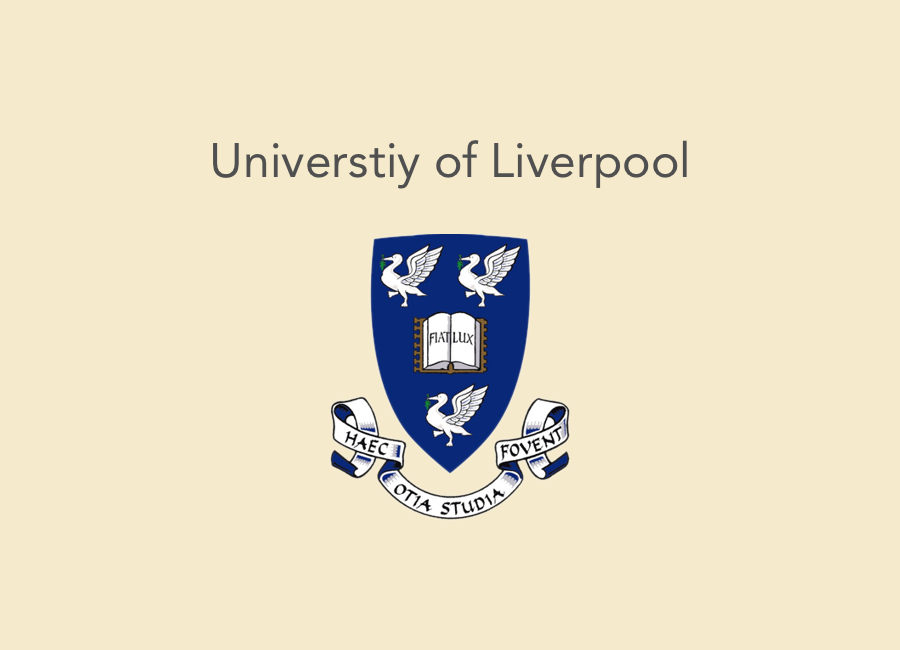
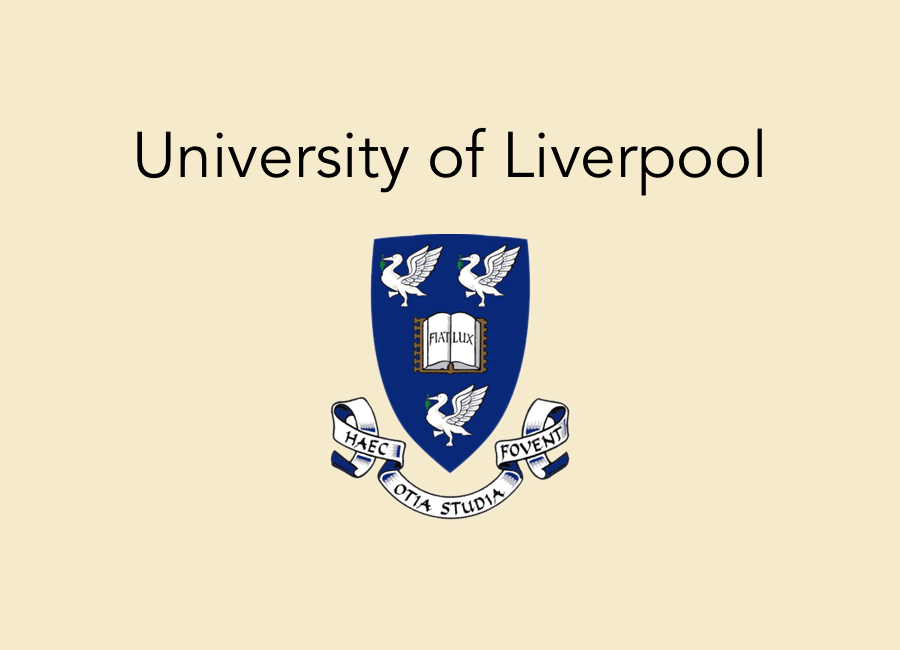
new uol image, copyright updated, nav bar selection fixed and insta removed

Changed region(s): [[0.1244, 0.1846, 0.8711, 0.3077]]

diff --git a/about.html b/about.html
@@ -60,13 +60,13 @@
               </ul>
               <ul class="nav navbar-nav navbar-right">
                   <li class="page-scroll">
-                      <a href="https://medium.com/@izzywizzz" target="_blank">Thoughts</a>
+                      <a href="https://medium.com/@izzywizz" target="_blank">Thoughts</a>
                   </li>
                   <li class="page-scroll">
                       <a href="index.html#portfolio">Portfolio</a>
                   </li>
                   <li class="page-scroll">
-                      <a href="about.html">About</a>
+                      <a href="about.html"><span>About</span></a>
                   </li>
                   <li class="page-scroll">
                       <a href="contact.html">Let's Chat</a>
@@ -94,13 +94,13 @@
                 <div class="col-sm-6">
                 <p class="about">Howdy there! My name is <span>Izzy</span></p>
                     <p class="medium">
-                    I am <span>iOS developer</span> and <span>designer</span> from Liverpool. I spent my youthful years traveling around europe,
+                    I am an <span>iOS developer</span> and <span>designer</span> from Glasgow. I spent my youthful years traveling around europe,
                      drinking far too many cups of tea and getting lost in a book.
-                    I can think of nothing more I love then bringing that idea on the back of a tissue that someone jotted down to life on the screen. Its amazing.
+                    I can think of nothing more I love then bringing that idea that someone jotted down to life on the screen. Its an amazing feeling.
                    </p>
-                    <p class="medium">I have been developing & desiging for a few years now and have had the pleasure working with some awesome clients
-                      like <span>Unilever</span> and <span>Univeristy of Liverpool</span>.
-                    What I promise to bring is a sharp, clean design approach, technical knwoldege of the iOS platform and and most of important, passion <span>:)</span></p>
+                    <p class="medium">I have been developing & designing for a few years now and have had the pleasure working with some awesome clients
+                      like <span>Unilever</span> and <span>University of Liverpool</span>.
+                    What I promise to bring is a sharp, clean design approach, technical knowledge of the iOS platform and most importantly, passion <span>:)</span></p>
                 </div>
             </div>
         </div>
@@ -112,16 +112,13 @@
             <div class="container">
                 <div class="row">
                     <div class="footer-col col-md-4">
-                        <p> <br>Copyright &copy; Izzy Ali 2016</p>
+                        <p> <br>Copyright &copy; Izzy Ali 2018</p>
                     </div>
                     <div class="footer-col col-md-4">
                     <!-- Left Blank for the grid-->
                     </div>
                     <div class="footer-col col-md-4">
                         <ul class="list-inline">
-                          <li>
-                              <a href="https://www.instagram.com/izzywizzz/" class="btn-social btn-outline"><i class="fa fa-instagram"></i></a>
-                          </li>
                           <li>
                               <a href="https://github.com/Izzywizz" class="btn-social btn-outline"><i class="fa fa-github"></i></a>
                           </li>

diff --git a/index.html b/index.html
@@ -60,7 +60,7 @@
                 </ul>
                 <ul class="nav navbar-nav navbar-right">
                     <li class="page-scroll">
-                        <a href="https://medium.com/@izzywizzz" target="_blank">Thoughts</a>
+                        <a href="https://medium.com/@izzywizz" target="_blank">Thoughts</a>
                     </li>
                     <li class="page-scroll">
                         <a href="#portfolio">Portfolio</a>
@@ -87,7 +87,8 @@
                     <div class="intro-text">
                     <br>
                     <br>
-                        <span class="skills">Howdy! I'm Izzy Ali. I'm an iOS developer and designer from Liverpool, UK (yes the Beatles were awesome).  I'm always looking for awesome projects, so drop me a line!
+                        <span class="skills">Howdy! I'm Izzy Ali. I'm an iOS developer and designer from Glasgow, UK.
+                            <br>I'm always looking for awesome projects, so drop me a line!</span>
 </span>
                     </div>
                 </div>
@@ -233,16 +234,13 @@
             <div class="container">
                 <div class="row">
                     <div class="footer-col col-md-4">
-                        <p> <br>Copyright &copy; Izzy Ali 2016</p>
+                        <p> <br>Copyright &copy; Izzy Ali 2018</p>
                     </div>
                     <div class="footer-col col-md-4">
                     <!-- Left Blank for the grid-->
                     </div>
                     <div class="footer-col col-md-4">
                         <ul class="list-inline">
-                            <li>
-                                <a href="https://www.instagram.com/izzywizzz/" class="btn-social btn-outline"><i class="fa fa-instagram"></i></a>
-                            </li>
                             <li>
                                 <a href="https://github.com/Izzywizz" class="btn-social btn-outline"><i class="fa fa-github"></i></a>
                             </li>

diff --git a/contact.html b/contact.html
@@ -60,7 +60,7 @@
               </ul>
               <ul class="nav navbar-nav navbar-right">
                   <li class="page-scroll">
-                      <a href="https://medium.com/@izzywizzz" target="_blank">Thoughts</a>
+                      <a href="https://medium.com/@izzywizz" target="_blank">Thoughts</a>
                   </li>
                   <li class="page-scroll">
                       <a href="index.html#portfolio">Portfolio</a>
@@ -69,7 +69,7 @@
                       <a href="about.html">About</a>
                   </li>
                   <li class="page-scroll">
-                      <a href="contact.html">Let's Chat</a>
+                      <a href="contact.html"><span>Let's Chat</span></a>
                   </li>
               </ul>
           </div>
@@ -150,16 +150,13 @@
             <div class="container">
                 <div class="row">
                     <div class="footer-col col-md-4">
-                        <p> <br>Copyright &copy; Izzy Ali 2016</p>
+                        <p> <br>Copyright &copy; Izzy Ali 2018</p>
                     </div>
                     <div class="footer-col col-md-4">
                     <!-- Left Blank for the grid-->
                     </div>
                     <div class="footer-col col-md-4">
                         <ul class="list-inline">
-                          <li>
-                              <a href="https://www.instagram.com/izzywizzz/" class="btn-social btn-outline"><i class="fa fa-instagram"></i></a>
-                          </li>
                           <li>
                               <a href="https://github.com/Izzywizz" class="btn-social btn-outline"><i class="fa fa-github"></i></a>
                           </li>

diff --git a/chill.html b/chill.html
@@ -57,7 +57,7 @@
                 </ul>
                 <ul class="nav navbar-nav navbar-right">
                     <li class="page-scroll">
-                        <a href="https://medium.com/@izzywizzz" target="_blank">Thoughts</a>
+                        <a href="https://medium.com/@izzywizz" target="_blank">Thoughts</a>
                     </li>
                     <li class="page-scroll">
                         <a href="http://izzyali.co.uk/index.html#portfolio">Portfolio</a>
@@ -121,7 +121,7 @@
             <div class="container">
                 <div class="row">
                     <div class="footer-col col-md-4">
-                        <p> <br>Copyright &copy; Izzy Ali 2016</p>
+                        <p> <br>Copyright &copy; Izzy Ali 2018</p>
                     </div>
                     <div class="footer-col col-md-4">
                     <!-- Left Blank for the grid-->

diff --git a/christmas.html b/christmas.html
@@ -57,7 +57,7 @@
                 </ul>
                 <ul class="nav navbar-nav navbar-right">
                     <li class="page-scroll">
-                        <a href="https://medium.com/@izzywizzz" target="_blank">Thoughts</a>
+                        <a href="https://medium.com/@izzywizz" target="_blank">Thoughts</a>
                     </li>
                     <li class="page-scroll">
                         <a href="http://izzyali.co.uk/index.html#portfolio">Portfolio</a>
@@ -121,7 +121,7 @@
             <div class="container">
                 <div class="row">
                     <div class="footer-col col-md-4">
-                        <p> <br>Copyright &copy; Izzy Ali 2016</p>
+                        <p> <br>Copyright &copy; Izzy Ali 2018</p>
                     </div>
                     <div class="footer-col col-md-4">
                     <!-- Left Blank for the grid-->

diff --git a/day.html b/day.html
@@ -57,7 +57,7 @@
                 </ul>
                 <ul class="nav navbar-nav navbar-right">
                     <li class="page-scroll">
-                        <a href="https://medium.com/@izzywizzz" target="_blank">Thoughts</a>
+                        <a href="https://medium.com/@izzywizz" target="_blank">Thoughts</a>
                     </li>
                     <li class="page-scroll">
                         <a href="http://izzyali.co.uk/index.html#portfolio">Portfolio</a>
@@ -121,7 +121,7 @@
             <div class="container">
                 <div class="row">
                     <div class="footer-col col-md-4">
-                        <p> <br>Copyright &copy; Izzy Ali 2016</p>
+                        <p> <br>Copyright &copy; Izzy Ali 2018</p>
                     </div>
                     <div class="footer-col col-md-4">
                     <!-- Left Blank for the grid-->

diff --git a/jan.html b/jan.html
@@ -57,7 +57,7 @@
                 </ul>
                 <ul class="nav navbar-nav navbar-right">
                     <li class="page-scroll">
-                        <a href="https://medium.com/@izzywizzz" target="_blank">Thoughts</a>
+                        <a href="https://medium.com/@izzywizz" target="_blank">Thoughts</a>
                     </li>
                     <li class="page-scroll">
                         <a href="http://izzyali.co.uk/index.html#portfolio">Portfolio</a>
@@ -121,7 +121,7 @@
             <div class="container">
                 <div class="row">
                     <div class="footer-col col-md-4">
-                        <p> <br>Copyright &copy; Izzy Ali 2016</p>
+                        <p> <br>Copyright &copy; Izzy Ali 2018</p>
                     </div>
                     <div class="footer-col col-md-4">
                     <!-- Left Blank for the grid-->

diff --git a/little.html b/little.html
@@ -57,7 +57,7 @@
                 </ul>
                 <ul class="nav navbar-nav navbar-right">
                     <li class="page-scroll">
-                        <a href="https://medium.com/@izzywizzz" target="_blank">Thoughts</a>
+                        <a href="https://medium.com/@izzywizz" target="_blank">Thoughts</a>
                     </li>
                     <li class="page-scroll">
                         <a href="http://izzyali.co.uk/index.html#portfolio">Portfolio</a>
@@ -123,7 +123,7 @@
             <div class="container">
                 <div class="row">
                     <div class="footer-col col-md-4">
-                        <p> <br>Copyright &copy; Izzy Ali 2016</p>
+                        <p> <br>Copyright &copy; Izzy Ali 2018</p>
                     </div>
                     <div class="footer-col col-md-4">
                     <!-- Left Blank for the grid-->

diff --git a/magic.html b/magic.html
@@ -57,7 +57,7 @@
                 </ul>
                 <ul class="nav navbar-nav navbar-right">
                     <li class="page-scroll">
-                        <a href="https://medium.com/@izzywizzz" target="_blank">Thoughts</a>
+                        <a href="https://medium.com/@izzywizz" target="_blank">Thoughts</a>
                     </li>
                     <li class="page-scroll">
                         <a href="http://izzyali.co.uk/index.html#portfolio">Portfolio</a>
@@ -121,7 +121,7 @@
             <div class="container">
                 <div class="row">
                     <div class="footer-col col-md-4">
-                        <p> <br>Copyright &copy; Izzy Ali 2016</p>
+                        <p> <br>Copyright &copy; Izzy Ali 2018</p>
                     </div>
                     <div class="footer-col col-md-4">
                     <!-- Left Blank for the grid-->

diff --git a/ninja.html b/ninja.html
@@ -57,7 +57,7 @@
                 </ul>
                 <ul class="nav navbar-nav navbar-right">
                     <li class="page-scroll">
-                        <a href="https://medium.com/@izzywizzz" target="_blank">Thoughts</a>
+                        <a href="https://medium.com/@izzywizz" target="_blank">Thoughts</a>
                     </li>
                     <li class="page-scroll">
                         <a href="http://izzyali.co.uk/index.html#portfolio">Portfolio</a>
@@ -120,7 +120,7 @@
             <div class="container">
                 <div class="row">
                     <div class="footer-col col-md-4">
-                        <p> <br>Copyright &copy; Izzy Ali 2016</p>
+                        <p> <br>Copyright &copy; Izzy Ali 2018</p>
                     </div>
                     <div class="footer-col col-md-4">
                     <!-- Left Blank for the grid-->

diff --git a/uol.html b/uol.html
@@ -57,7 +57,7 @@
                 </ul>
                 <ul class="nav navbar-nav navbar-right">
                     <li class="page-scroll">
-                        <a href="https://medium.com/@izzywizzz" target="_blank">Thoughts</a>
+                        <a href="https://medium.com/@izzywizz" target="_blank">Thoughts</a>
                     </li>
                     <li class="page-scroll">
                         <a href="http://izzyali.co.uk/index.html#portfolio">Portfolio</a>
@@ -123,7 +123,7 @@
             <div class="container">
                 <div class="row">
                     <div class="footer-col col-md-4">
-                        <p> <br>Copyright &copy; Izzy Ali 2016</p>
+                        <p> <br>Copyright &copy; Izzy Ali 2018</p>
                     </div>
                     <div class="footer-col col-md-4">
                     <!-- Left Blank for the grid-->

diff --git a/verdy.html b/verdy.html
@@ -57,7 +57,7 @@
                 </ul>
                 <ul class="nav navbar-nav navbar-right">
                     <li class="page-scroll">
-                        <a href="https://medium.com/@izzywizzz" target="_blank">Thoughts</a>
+                        <a href="https://medium.com/@izzywizz" target="_blank">Thoughts</a>
                     </li>
                     <li class="page-scroll">
                         <a href="http://izzyali.co.uk/index.html#portfolio">Portfolio</a>
@@ -120,7 +120,7 @@
             <div class="container">
                 <div class="row">
                     <div class="footer-col col-md-4">
-                        <p> <br>Copyright &copy; Izzy Ali 2016</p>
+                        <p> <br>Copyright &copy; Izzy Ali 2018</p>
                     </div>
                     <div class="footer-col col-md-4">
                     <!-- Left Blank for the grid-->
